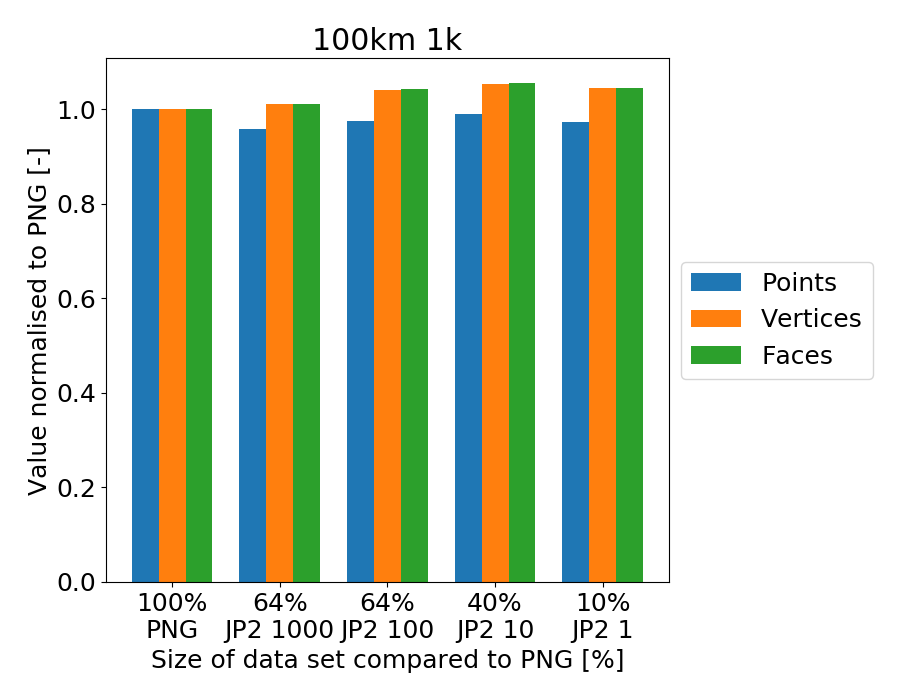
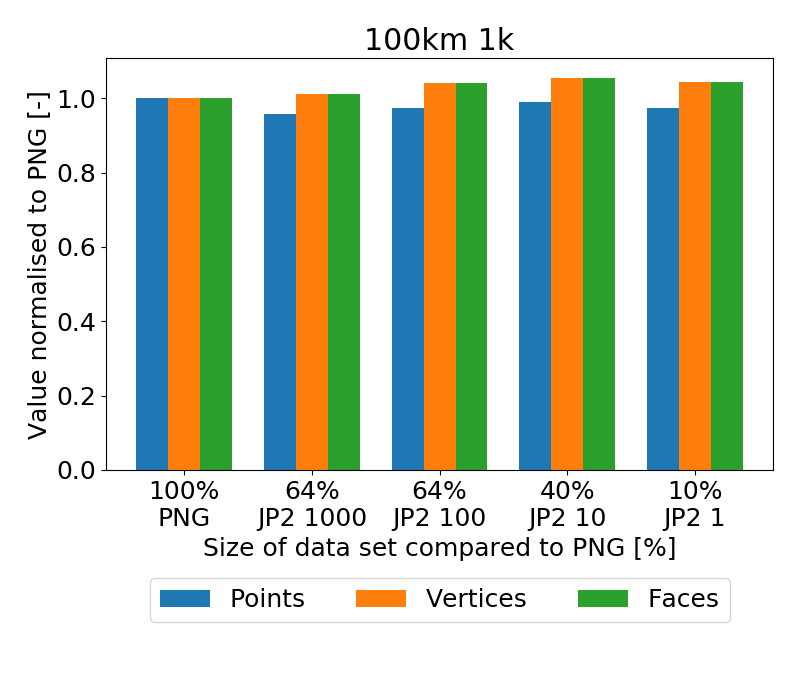
Update images and script

diff --git a/doc/thesis/0_figures/recon/plot.py b/doc/thesis/0_figures/recon/plot.py
@@ -5,7 +5,7 @@ import matplotlib.pyplot as plt
 import numpy as np
 
 plt.rcParams.update({"font.size": 18})
-FIGURE_SIZE = (9, 7)
+FIGURE_SIZE = (8, 7)
 
 def main(file_name):
 	labels = []
@@ -38,7 +38,7 @@ def main(file_name):
 	ax.set_title(file_name[:-4].replace("_", " "))
 	ax.set_xticks(x)
 	ax.set_xticklabels(label_size_p)
-	ax.legend(loc='center left', bbox_to_anchor=(1, 0.5))
+	ax.legend(loc='lower center', bbox_to_anchor=(0.5, -0.4), ncol=3)
 	
 	fig.tight_layout()
 	plt.savefig(file_name[:-4] + ".png")
